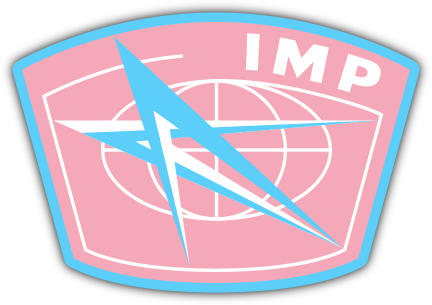
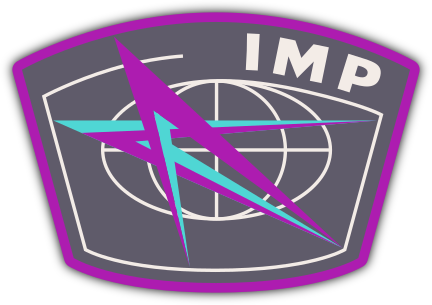
More variations with script

diff --git a/mir/variations.py b/mir/variations.py
@@ -25,6 +25,18 @@ pink = "f5a9b8"
 white = "ffffff"
 yellow = "fdd910"
 
+mimi_blue = "4fd6d4"
+mimi_pink = "dd43e1"
+mimi_white = "f3ece7"
+mimi_black = "5f5b6a"
+
+to_rearrange = (
+    mimi_blue,
+    mimi_pink,
+    mimi_white,
+    mimi_black,
+)
+
 current = (
     pink,
     blue,
@@ -49,11 +61,13 @@ def replace(colours, out_name):
 
 
 def permute():
-    orderings = itertools.permutations((blue, pink, white))
+    orderings = itertools.permutations(to_rearrange)
     for colours in orderings:
         out_name = "palettes/" + "-".join(colours) + ".png"
         colours = list(colours)
-        colours.append(colours[1])
+        # make up arrow accent if only
+        # permuting three colours
+        # colours.append(colours[1])
         replace(colours, out_name)
 
 
